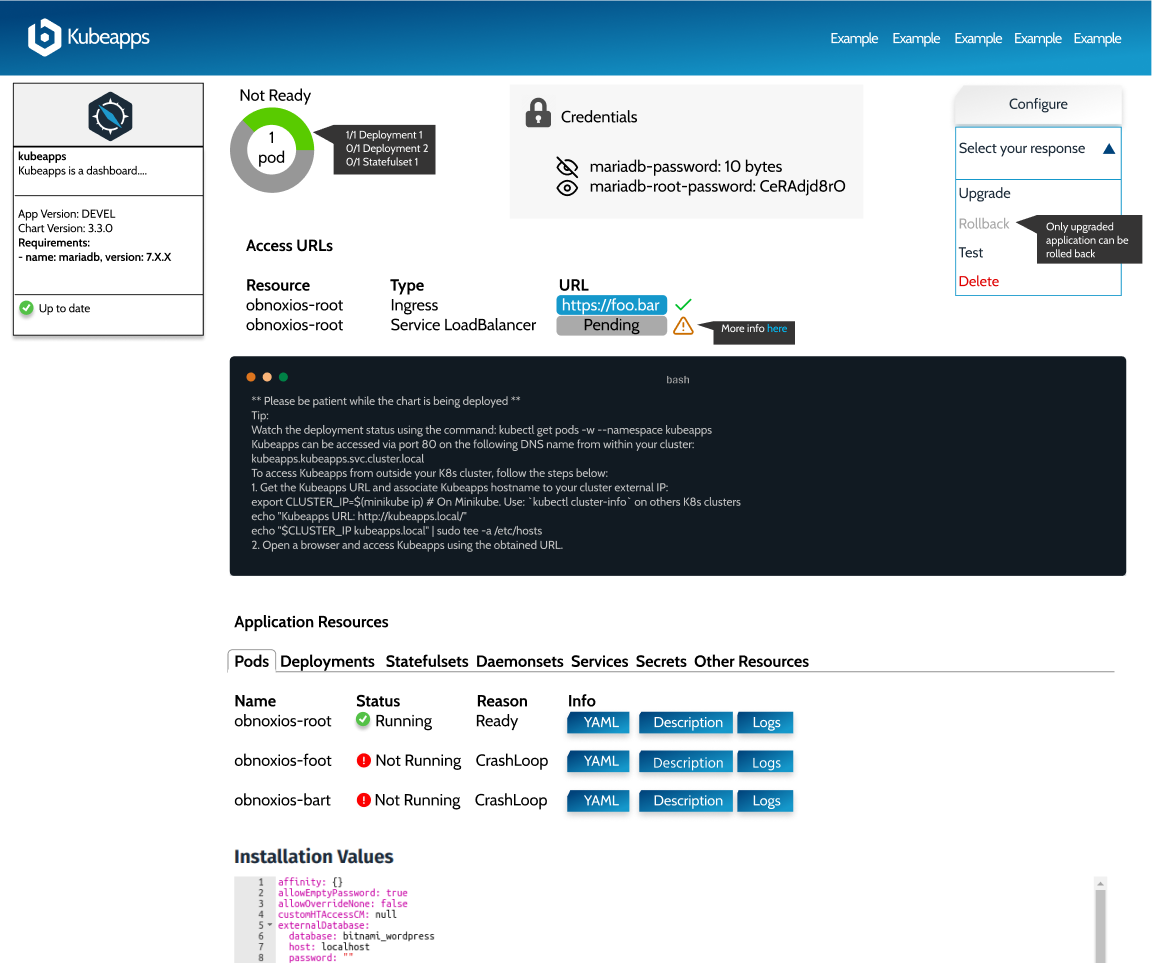
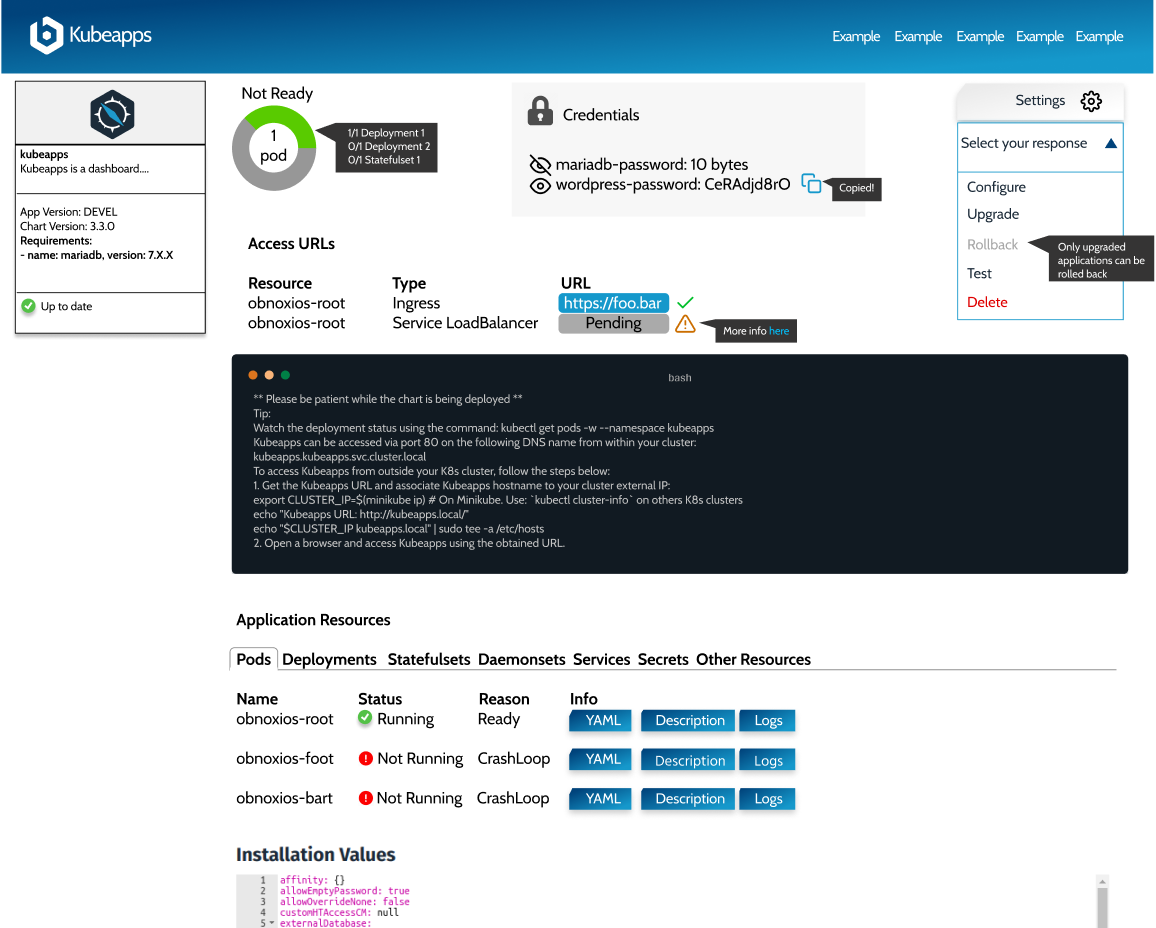
Apply review

diff --git a/docs/architecture/design-proposals/dashboard/application-view-revamp.md b/docs/architecture/design-proposals/dashboard/application-view-revamp.md
@@ -19,6 +19,8 @@ The goal of this revamp is to improve the Application View, which is one of the 
 
 Application information already contains the file requirements.yaml. This is the file used by Helm to define the application dependencies. That file is encoded in base64 and it's available under the path `app.chart.files[2].value`. Once that information is properly parsed, we should be able to render that as part of the chart information.
 
+For Helm charts adapted to Helm 3, the same information can be found in the chart definition so it should be available at `app.chart.dependencies`. [Link to docs](https://helm.sh/docs/topics/charts/#the-chart-yaml-file).
+
 The raw information included in the file is this:
 
 ```
@@ -43,7 +45,7 @@ Right now we only show a "Ready" or "Not Ready" status message depending on the 
 
 ### Highlight Application Credentials
 
-In the current view, application credentials can be found either reading and executing the commands that the Notes suggest, or clicking on the icon to reveal the secrets below. Those secrets usually are of the type "Opaque" (rather than `kubernetes.io/tls` or `kubernetes.io/service-account-token`). We can extract those credentials and show them in a more prominent place. That way the user can easily discover the application credentials without the need of a terminal:
+In the current view, application credentials can be found either reading and executing the commands that the Notes suggest, or clicking on the icon to reveal the secrets below. Those secrets usually are of the type "Opaque" (rather than `kubernetes.io/tls` or `kubernetes.io/service-account-token`). We can extract those credentials and show them in a more prominent place. That way the user can easily discover and copy the application credentials without the need of a terminal:
 
 <img src="./img/credentials-box.png" width="400px">
 
@@ -51,7 +53,9 @@ Note that we will still be showing the different application Secrets along with 
 
 ### Compress Application Actions
 
-The current approach is to show one button per action (Upgrade, Delete, Rollback). This list is growing over time (for example, the backend endpoint for running tests is ready to be used). It can also be confusing to show a different list of buttons depending on the release state. One example is the Rollback button that is only rendered if the application has been upgraded. In order to avoid these issues, we can show a clickable menu with the different options, graying out the options not available (potentially showing a tooltip):
+The current approach is to show one button per action (Upgrade, Delete, Rollback). This list is growing over time (for example, the backend endpoint for running tests is ready to be used). It can also be confusing to show a different list of buttons depending on the release state. One example is the Rollback button that is only rendered if the application has been upgraded. In order to avoid these issues, we can show a clickable menu with the different options, graying out the options not available (potentially showing a tooltip).
+
+We could also differentiate between the configuration and the ugprade actions. While both actions translate to the same helm command (`upgrade`), while configuring the application, the same version will be used and when upgrading, the latest version can be auto-selected.
 
 <img src="./img/configuration-options.png" width="300px">
 
@@ -70,7 +74,7 @@ Finally, we can show a single resource table with all the resources so users can
 
 Apart from the basic information of the resource, we could add a summary (human-friendly) to know the status of the resource if possible. 
 
-We can also show different buttons in order to show the resource YAML or description (and logs in the case of pods):
+We can also show different buttons in order to show the resource YAML, description and logs if available (available for pods, services and workloads).
 
 <img src="./img/resources-table.png">
 
@@ -104,9 +108,19 @@ Now, let's discuss in detail what information can be helpful as columns for user
   - Kind: Object Kind
   - Age
 
+## Priorities
+
+In order to prioritize the work described in this document, we can tag each action item with a priority: P0, P1 and P2 (being P0 the most important):
+
+- Improve Application Status Report: P0
+- Render an Extended Resources Table: P0
+- Highlight Application Credentials: P1
+- Compress Application Actions: P1
+- Show Application Dependencies: P2
+- Include Additional Information for Access URLs: P2
+
 ## Summary
 
 This is a general view of the changes planned in this document. Specific implementation details will be discussed in their respective PRs:
 
 <img src="./img/appview-revamp.png">
-
